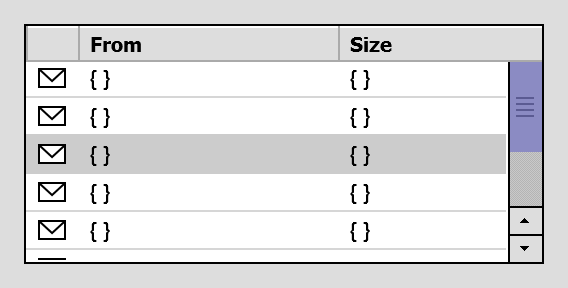
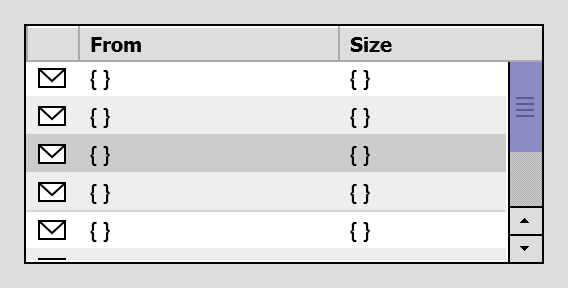
Enciende la cebra en las tablas
Los renglones alternan tono. En una tabla ancha es lo que evita leer el
dato de un renglón en la columna de otro.

El índice lo lleva WPF a partir de AlternationCount, así que no hace falta
contar renglones ni tocar los datos: basta leer la propiedad que el control
ya publica. Y se apaga poniendo AlternationCount en 1, que es el mecanismo
del marco de trabajo y no una propiedad inventada.

Un solo paso de la rampa de grises y no dos: con más contraste la tabla se
lee a rayas y no a renglones.

Con la cebra encendida la raya entre renglones desaparece, y está bien que
así sea. Cada renglón monta dos píxeles sobre el anterior para tapar la
costura del redondeo, y con fondo opaco tapa también su divisor; el tono ya
los separa. El último conserva la suya, porque no hay renglón siguiente que
la cubra y es la que cierra la tabla. Apagando la cebra el fondo vuelve a
ser transparente y las rayas reaparecen solas.

El disparador va antes que el de selección para que la banda azul lo pise:
al revés, un renglón par elegido se vería gris.

Changed region(s): [[0.0299, 0.5938, 0.8979, 0.625]]

diff --git a/src/MacOS9.Platinum/Themes/ListView.xaml b/src/MacOS9.Platinum/Themes/ListView.xaml
@@ -161,6 +161,28 @@
                             <Setter TargetName="Columns" Property="Visibility" Value="Collapsed" />
                             <Setter TargetName="Plain" Property="Visibility" Value="Visible" />
                         </Trigger>
+
+                        <!-- Cebra. El índice lo lleva WPF a partir de AlternationCount,
+                             así que no hace falta contar renglones ni tocar los datos:
+                             basta leer la propiedad que el control ya publica.
+
+                             Va antes que el disparador de selección para que la banda
+                             azul lo pise. Si fuera al revés, un renglón par elegido se
+                             vería gris.
+
+                             Con la cebra encendida la raya entre renglones deja de
+                             verse, y está bien que así sea: cada renglón monta dos
+                             píxeles sobre el anterior para tapar la costura del
+                             redondeo, y con fondo opaco tapa también su divisor. El
+                             tono ya separa los renglones, así que la raya sobraría.
+                             El último sí conserva la suya, porque no hay renglón
+                             siguiente que la cubra y es la que cierra la tabla.
+
+                             Apagando la cebra el fondo vuelve a ser transparente y
+                             las rayas reaparecen solas. -->
+                        <Trigger Property="ItemsControl.AlternationIndex" Value="1">
+                            <Setter TargetName="Row" Property="Background" Value="{StaticResource RowStripeBrush}" />
+                        </Trigger>
                         <!-- El divisor también se tiñe: si no, la banda de selección   -->
                         <!-- termina un píxel antes y queda una raya clara pegada al    -->
                         <!-- renglón siguiente.                                         -->
@@ -340,6 +362,15 @@
         <Setter Property="SnapsToDevicePixels" Value="True" />
         <Setter Property="UseLayoutRounding" Value="True" />
         <Setter Property="ItemContainerStyle" Value="{StaticResource PlatinumListViewItem}" />
+
+        <!-- Cebra encendida: los renglones alternan tono. En una tabla ancha es lo    -->
+        <!-- que evita leer el dato de un renglón en la columna de otro.               -->
+        <!--                                                                           -->
+        <!-- Se apaga poniendo AlternationCount en 1, que es el mecanismo de WPF y no  -->
+        <!-- una propiedad inventada. Con 1 todos los renglones quedan en índice cero  -->
+        <!-- y ninguno se tiñe.                                                        -->
+        <Setter Property="AlternationCount" Value="2" />
+
         <Setter Property="ScrollViewer.HorizontalScrollBarVisibility" Value="Auto" />
         <Setter Property="ScrollViewer.VerticalScrollBarVisibility" Value="Auto" />
         <!-- Con View de GridView: el filo negro exterior, y el pozo hundido más la    -->

diff --git a/src/MacOS9.Platinum/Themes/Palette.xaml b/src/MacOS9.Platinum/Themes/Palette.xaml
@@ -46,6 +46,11 @@
     <SolidColorBrush x:Key="CalendarCellBrush" Color="{StaticResource Gray1}" />
     <SolidColorBrush x:Key="CalendarRuleBrush" Color="{StaticResource Gray3}" />
 
+    <!-- Renglón alterno de una tabla. Un solo paso de la rampa, no dos: la cebra     -->
+    <!-- tiene que guiar el ojo a lo largo del renglón sin competir con la selección  -->
+    <!-- ni con el texto. Con más contraste la tabla se lee a rayas y no a renglones. -->
+    <SolidColorBrush x:Key="RowStripeBrush" Color="{StaticResource Gray1}" />
+
     <!-- Visor de tablero. El verde no sale de la rampa de grises porque es fósforo:  -->
     <!-- lo que imita es una pantalla que emite luz, no una superficie que la refleja. -->
     <SolidColorBrush x:Key="DisplayFaceBrush" Color="#FF101410" />

diff --git a/README.md b/README.md
@@ -135,7 +135,11 @@ This cannot be handled from a `ResourceDictionary`: it is a process-wide switch.
 - **TabControl** — trapezoidal tabs, the active one fused with the panel
 - **ListView** — list with columns: embossed headers, row dividers anchored to the
   bottom of each row so the last one is closed too, full-row selection, and a
-  dedicated template for the GridView `ScrollViewer`
+  dedicated template for the GridView `ScrollViewer`. Alternating rows are on:
+  in a wide table the banding is what stops you reading one row's value in
+  another's column. It rides on WPF's own `AlternationCount`, so setting that to
+  `1` turns it off — no invented property. With banding on the rules between rows
+  go away and the tone does the separating; the last row keeps its closing rule
 - **Menu** and **ContextMenu** — menu bar with submenus, checkable items, keyboard
   gestures and separators; inverted blue highlight, the only one in the theme
 - **Slider** — horizontal and vertical, with tick marks; the thumb pentagon is
